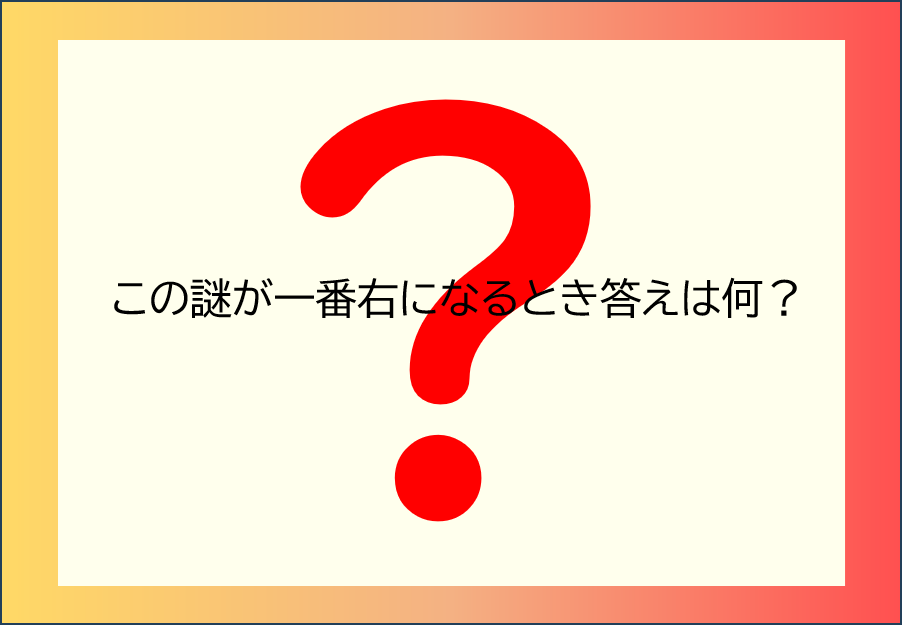
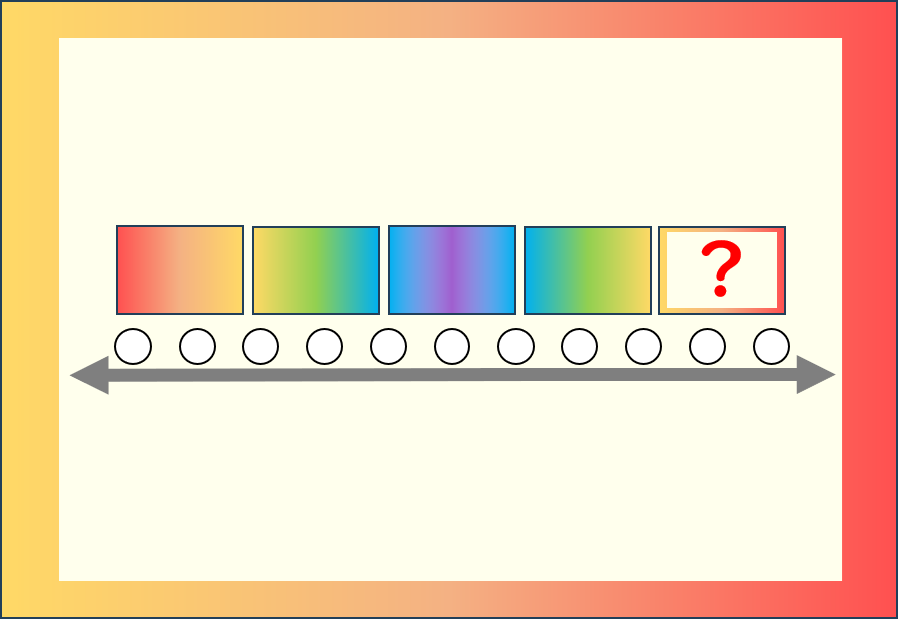
ラスト画像追加

Changed region(s): [[0.0624, 0.1535, 0.9354, 0.6446], [0.0624, 0.0614, 0.9354, 0.0921], [0.4365, 0.6753, 0.5612, 0.8595]]

diff --git a/rotor/index.html b/rotor/index.html
@@ -42,15 +42,17 @@
       	</details>
         <details class="hint">
         	<summary>ヒント:②</summary>
-        	<p>「ありくつみきみつ？」の順番になるはずだ。続いて並べた時の色がどのようなグラデーションになっているかを考えよう。</p>
+        	<p>「ありくつみきみつ？」の順番になるはずだ。両矢印が何を表すかを考えてみよう。</p>
       	</details>
         <details class="hint">
         	<summary>ヒント:③</summary>
-        	<p>グラデーションは赤・橙・緑・青・紫・青・緑・橙・赤となっている。</p>
+        	<p>次の場合も両矢印で示せる</p>
+        	<p>しんぶんし</p>
+        	<p>←ーーー→</p>
       	</details>
         <details class="hint">
         	<summary>答え</summary>
-        	<p>答え全部で回文になっている。グラデーションが途中で反転しているのは回文を示唆しているため。回文にするために「ありくつみきみつ？」に入るものは「くりあ」</p>
+        	<p>答え全部で回文になっている。両矢印は回文を示唆しているため。回文にするために「ありくつみきみつ？」に入るものは「くりあ」</p>
       	</details>
       </details>
     </section>
